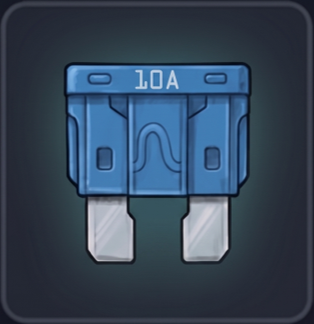
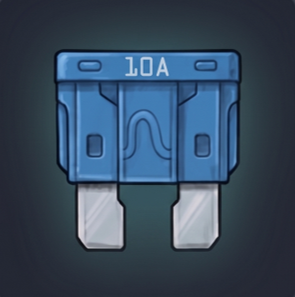
הגדלת תמונת גודל-עובר והקטנת עיגול הפינות + עדכון תמונת שבוע 5
- אייקון גודל-עובר גדל ל-76px עם פינות כמעט ישרות (מסגרת 4px, תמונה 3px),
  כדי שהאיורים המעוגלים-מראש יוצגו נקי בלי כפל-עיגול
- עדכון התמונה של שבוע 5

diff --git a/src/pages/Home.jsx b/src/pages/Home.jsx
@@ -18,7 +18,7 @@ const BabySizeIcon = ({ week, emoji }) => {
             src={`/images/week${week}.png`}
             alt=""
             onError={() => setImgFailed(true)}
-            style={{ width: '100%', height: '100%', objectFit: 'contain', borderRadius: '12px' }}
+            style={{ width: '100%', height: '100%', objectFit: 'contain', borderRadius: '3px' }}
         />
     );
 };
@@ -528,12 +528,12 @@ const Home = ({ currentWeek, setCurrentWeek }) => {
                 marginBottom: '12px',
             }}>
                 <div style={{
-                    width: '50px', height: '50px',
-                    borderRadius: '14px',
+                    width: '76px', height: '76px',
+                    borderRadius: '4px',
                     background: 'rgba(255,255,255,0.04)',
                     border: '1px solid rgba(255,255,255,0.08)',
                     display: 'flex', alignItems: 'center', justifyContent: 'center',
-                    fontSize: '26px',
+                    fontSize: '38px',
                     flexShrink: 0,
                 }}>
                     <BabySizeIcon week={currentWeek} emoji={getBabySizeEmoji(currentWeek)} />
